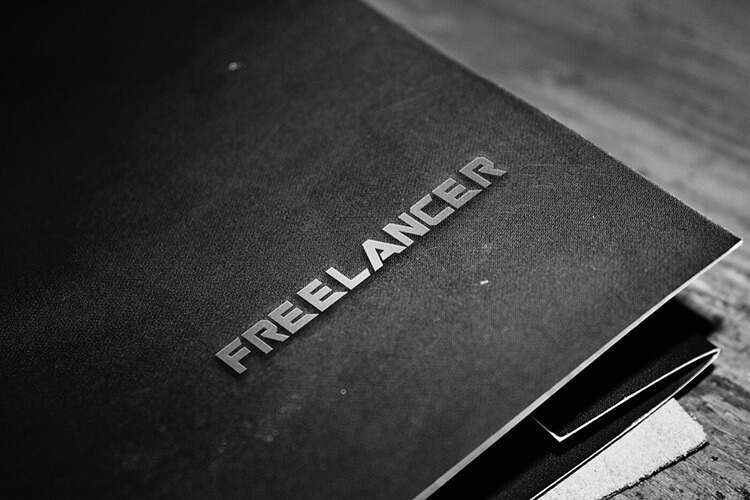
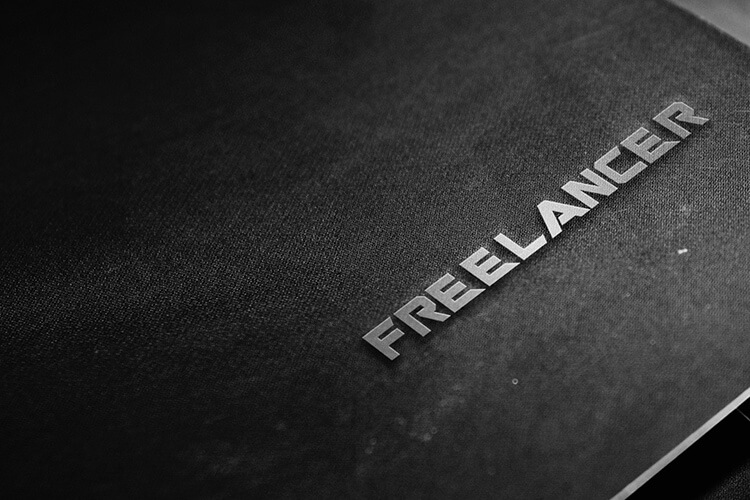
feat: 修改banner图、修改文案、增加本地一键部署脚本

diff --git a/src/components/NoLogin.vue b/src/components/NoLogin.vue
@@ -1,6 +1,6 @@
 <template>
   <div class="u-nologin">
-    <p>请关注公众号并从公众号内进入电影人平台</p>
+    <p>请关注公众号并从公众号内进入电影创作人平台</p>
     <p>查看更多信息</p>
     <img :src="require('../assets/qrcode.jpg')" class="u-qr">
   </div>

diff --git a/public/index.html b/public/index.html
@@ -29,7 +29,7 @@
             a();
         }(window);
     </script>
-    <script src="http://res.wx.qq.com/open/js/jweixin-1.2.0.js"></script>
+    <script src="https://res.wx.qq.com/open/js/jweixin-1.2.0.js"></script>
   </head>
   <body>
     <noscript>
